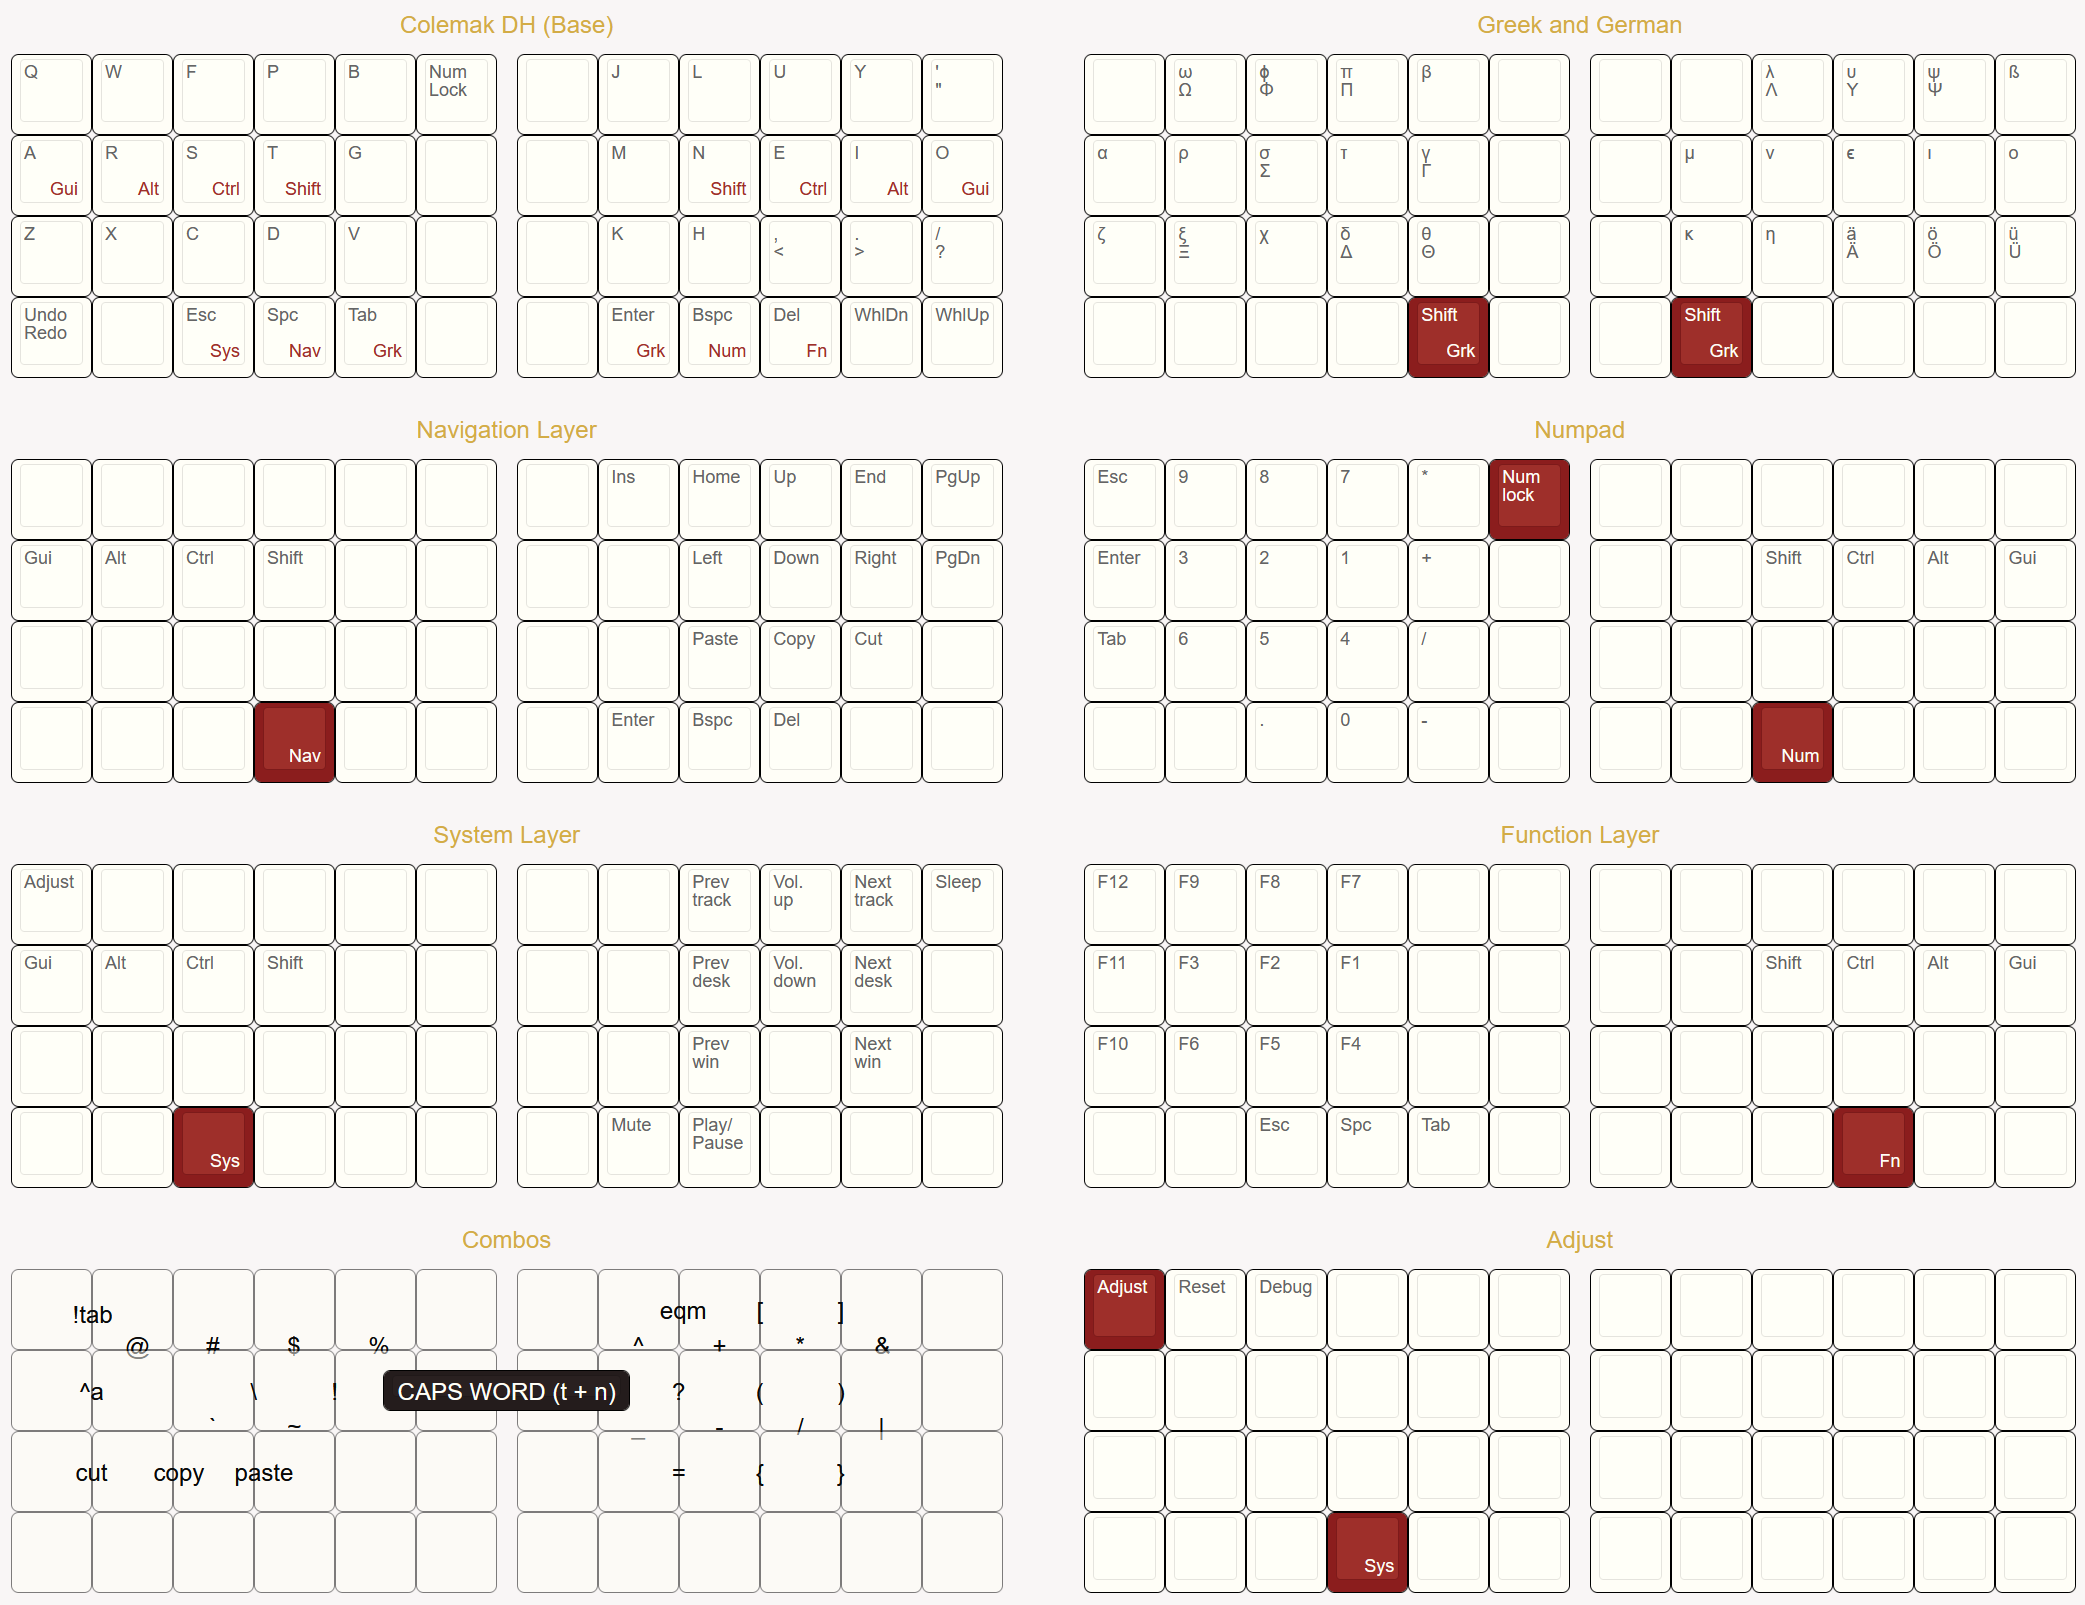
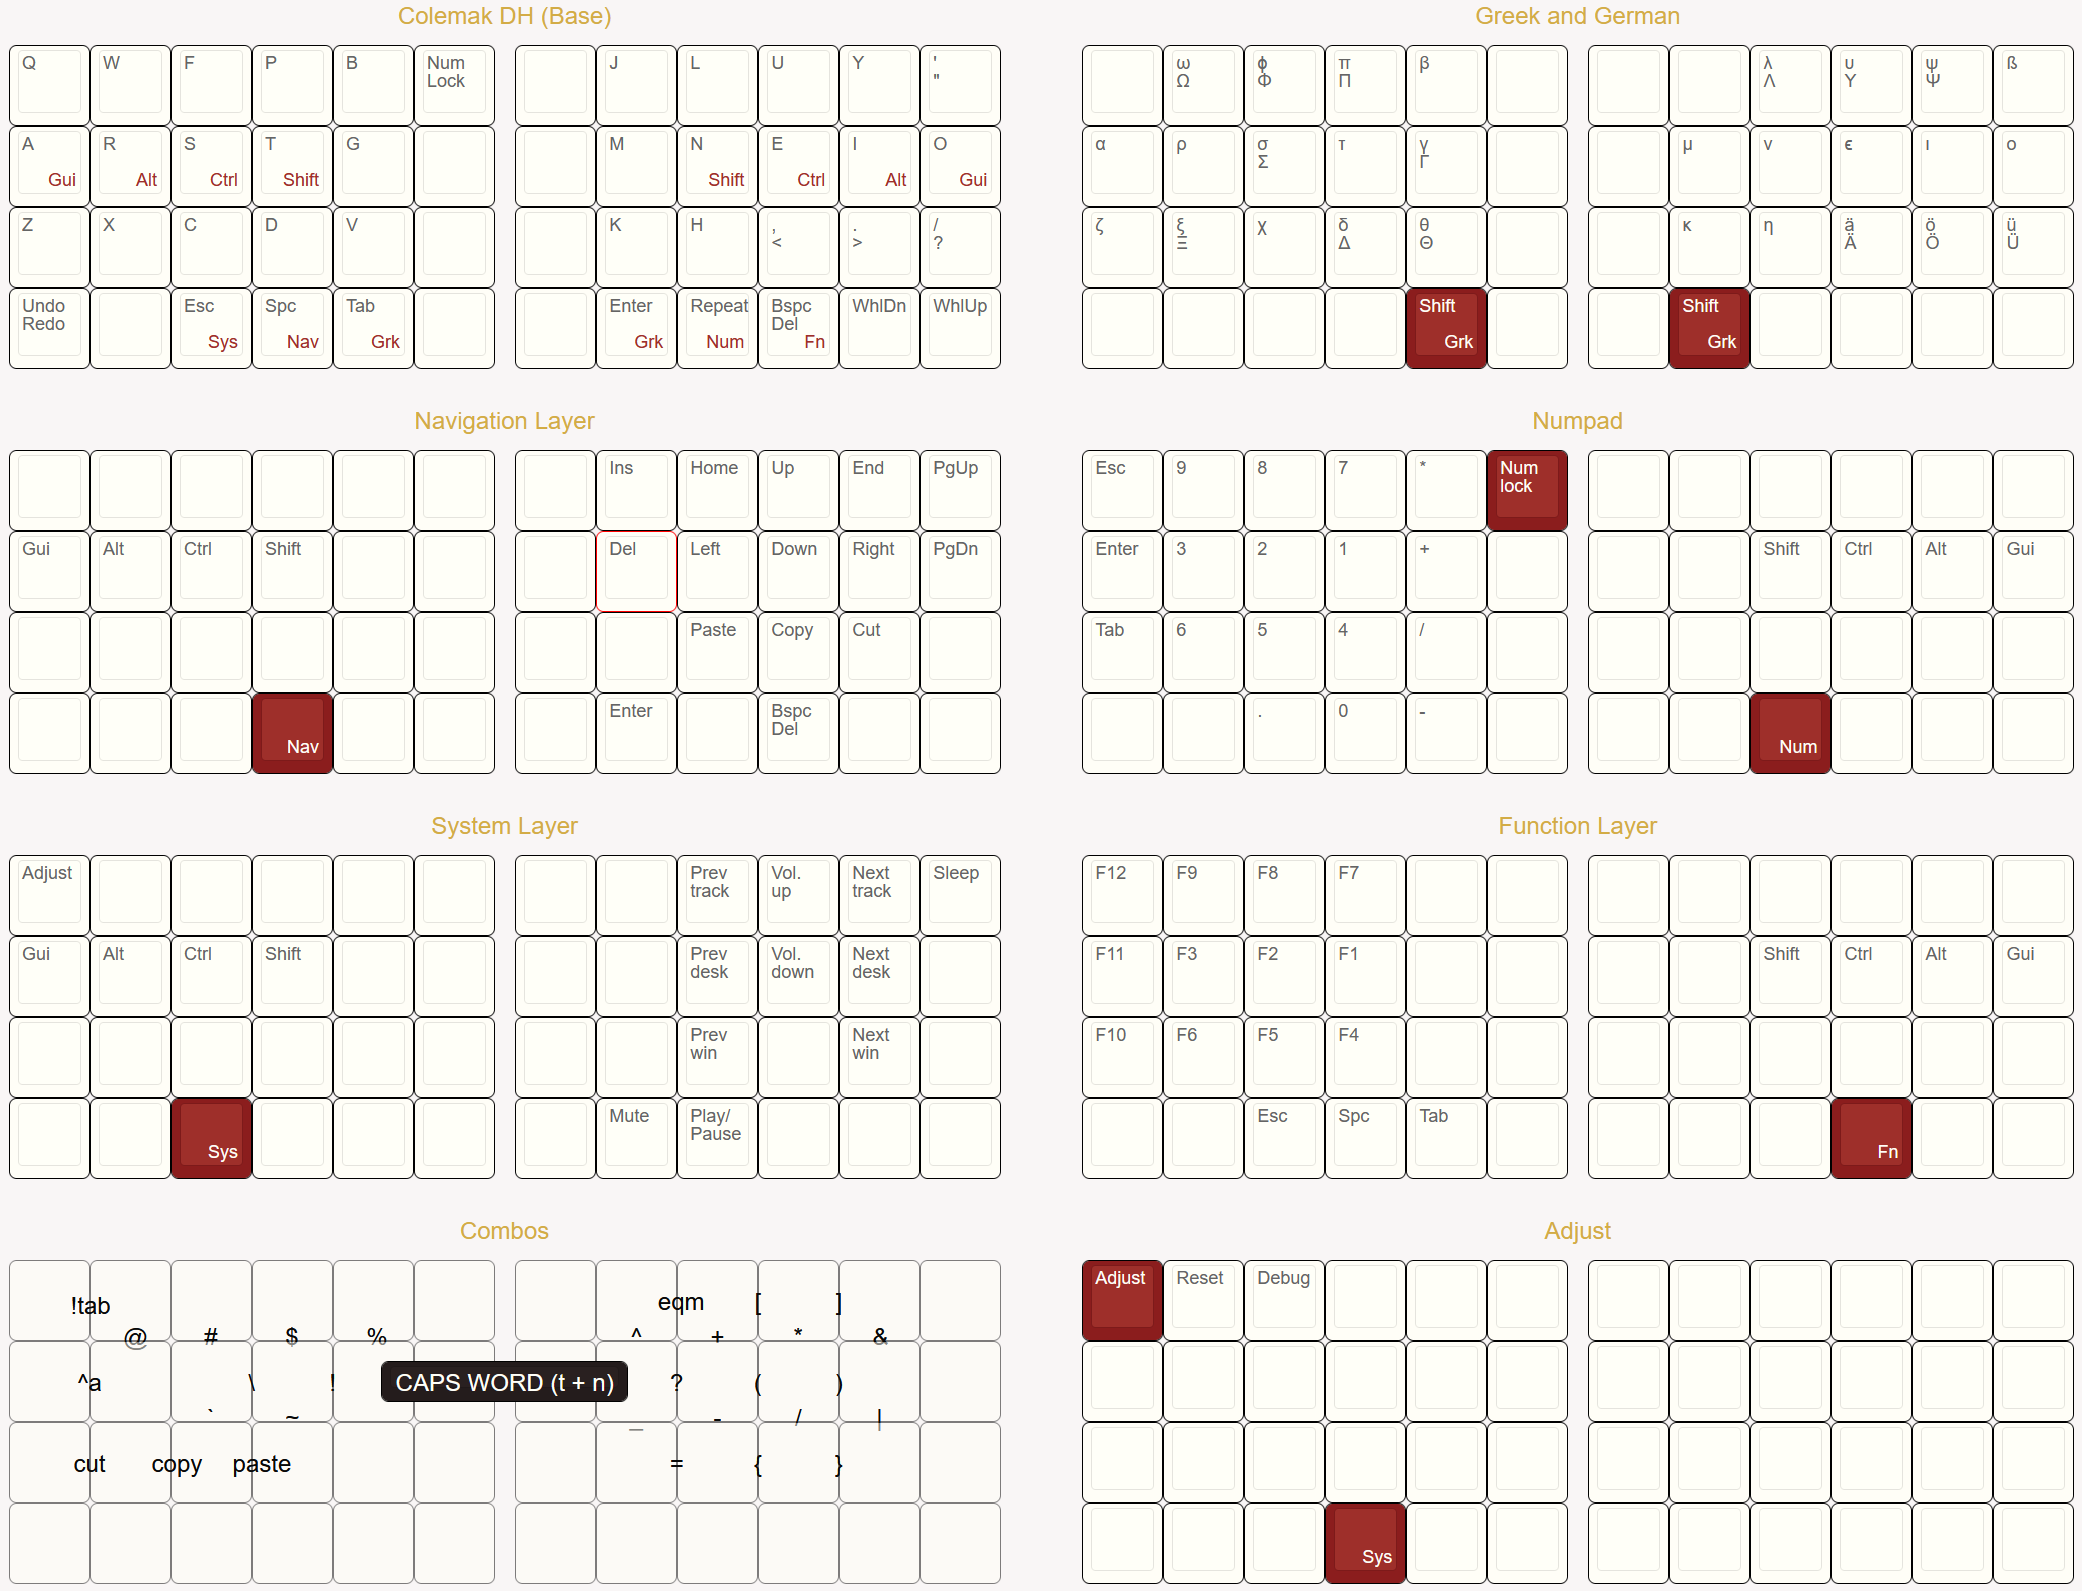
add repeat key

diff --git a/keyboards/planck/keymaps/urob/keymap.c b/keyboards/planck/keymaps/urob/keymap.c
@@ -63,7 +63,7 @@ const uint16_t PROGMEM keymaps[][MATRIX_ROWS][MATRIX_COLS] = {
     KC_Q,    KC_W,    KC_F,    KC_P,    KC_B,      DF(_NUM), XXXXXXX,  KC_J,    KC_L,    KC_U,    KC_Y,    KC_QUOT,
     HOME_A,  HOME_R,  HOME_S,  HOME_T,  KC_G,      XXXXXXX, XXXXXXX,   KC_M,    HOME_N,  HOME_E,  HOME_I,  HOME_O, 
     KC_Z,    KC_X,    KC_C,    KC_D,    KC_V,      XXXXXXX, XXXXXXX,   KC_K,    KC_H,    KC_COMM, KC_DOT,  KC_SCLN,
-    UNDO,    OSL_GRK, ESC_SYS, SPC_NAV, TAB_GRK,   KC_LSFT, KC_RSFT,   ENT_GRK, BS_NUM,  DEL_FN,  KC_WH_D, KC_WH_U
+    UNDO,    OSL_GRK, ESC_SYS, SPC_NAV, TAB_GRK,   KC_LSFT, KC_RSFT,   ENT_GRK, REP_NUM, BS_FN,   KC_WH_D, KC_WH_U
 ),
 
 [_GRK] = LAYOUT_planck_grid(
@@ -75,9 +75,9 @@ const uint16_t PROGMEM keymaps[][MATRIX_ROWS][MATRIX_COLS] = {
 
 [_NAV] = LAYOUT_planck_grid(
     _______, _______, _______, _______, _______,   _______, _______,   KC_INS , KC_HOME, KC_UP,   KC_END,  KC_PGUP,
-    KC_LGUI, KC_LALT, KC_LCTL, KC_LSFT, _______,   _______, _______,   _______, KC_LEFT, KC_DOWN, KC_RGHT, KC_PGDN,
+    KC_LGUI, KC_LALT, KC_LCTL, KC_LSFT, _______,   _______, _______,   KC_DEL , KC_LEFT, KC_DOWN, KC_RGHT, KC_PGDN,
     _______, _______, _______, _______, _______,   _______, _______,   _______, PASTE  , COPY   , CUT    , _______,
-    _______, _______, _______, _______, _______,   _______, _______,   KC_ENT , KC_BSPC, KC_DEL , _______, _______
+    _______, _______, _______, _______, _______,   _______, _______,   KC_ENT , XXXXXXX, KC_BSPC, _______, _______
 ),
 
 // [_SYM] = LAYOUT_planck_grid( /* depreciated, replaced by combo layer */
@@ -135,6 +135,12 @@ void caps_word_disable(void) {
     }
 }
 
+
+// Used to extract the basic tapping keycode from a dual-role key.
+// Example: GET_TAP_KC(MT(MOD_RSFT, KC_E)) == KC_E
+#define GET_TAP_KC(dual_role_key) dual_role_key & 0xFF
+
+
 void process_caps_word(uint16_t keycode, const keyrecord_t *record) {
     // Update caps word state
     if (caps_word_on) {
@@ -144,7 +150,8 @@ void process_caps_word(uint16_t keycode, const keyrecord_t *record) {
                 // Earlier return if this has not been considered tapped yet
                 if (record->tap.count == 0) { return; }
                 // Get the base tapping keycode of a mod- or layer-tap key
-                keycode = keycode & 0xFF;
+                // keycode = keycode & 0xFF;
+                keycode = GET_TAP_KC(keycode);
                 break;
             default:
                 break;
@@ -178,35 +185,124 @@ void process_caps_word(uint16_t keycode, const keyrecord_t *record) {
 }
 
 
+uint16_t last_keycode = KC_NO;
+uint8_t last_modifier = 0;
+void process_repeat_key(uint16_t keycode, const keyrecord_t *record) {
+    if ((keycode != REP_NUM) || (record->tap.count == 0)) { // hold does not trigger repeat
+        last_modifier = oneshot_mod_state > mod_state ? oneshot_mod_state : mod_state;
+        switch (keycode) {
+            case QK_LAYER_TAP ... QK_LAYER_TAP_MAX:
+            case QK_MOD_TAP ... QK_MOD_TAP_MAX:
+                if (record->event.pressed) {
+                    last_keycode = GET_TAP_KC(keycode);
+                }
+                break;
+            default:
+                if (record->event.pressed) {
+                    last_keycode = keycode;
+                }
+                break;
+        }
+    } else { // keycode == REPEAT and it is tapped (not hold)
+        if (record->event.pressed) {
+            register_mods(last_modifier);
+            register_code16(last_keycode);
+        } else {
+            unregister_code16(last_keycode);
+            unregister_mods(last_modifier);
+        }
+    }
+}
+
+
 bool process_record_user(uint16_t keycode, keyrecord_t *record) {
     // Process caps word for updates
     process_caps_word(keycode, record);
 
+    process_repeat_key(keycode, record);
+    mod_state = get_mods();
+    oneshot_mod_state = get_oneshot_mods();
+
     switch (keycode) {
 
-    case CAPS_WORD:
-        // Toggle `caps_word_on`
-        if (record->event.pressed) {
-            if (caps_word_on) {
-                caps_word_disable();
-                return false;
-            } else {
-                caps_word_enable();
-                return false;
+        case CAPS_WORD:
+            // Toggle `caps_word_on`
+            if (record->event.pressed) {
+                if (caps_word_on) {
+                    caps_word_disable();
+                    return false;
+                } else {
+                    caps_word_enable();
+                    return false;
+                }
             }
-        }
-        break;
+            break;
+
+        case KC_BSPC:
+            {
+            static bool delkey_registered;
+            if (record->event.pressed) {
+                if (mod_state & MOD_MASK_SHIFT) {
+                    // In case only one shift is held
+                    // see https://stackoverflow.com/questions/1596668/logical-xor-operator-in-c
+                    // This also means that in case of holding both shifts and pressing KC_BSPC,
+                    // Shift+Delete is sent (useful in Firefox) since the shift modifiers aren't deleted.
+                    if (!(mod_state & MOD_BIT(KC_LSHIFT)) != !(mod_state & MOD_BIT(KC_RSHIFT))) {
+                        del_mods(MOD_MASK_SHIFT);
+                    }
+                    register_code(KC_DEL);
+                    delkey_registered = true;
+                    set_mods(mod_state);
+                    return false;
+                }
+            } else {
+                if (delkey_registered) {
+                    unregister_code(KC_DEL);
+                    delkey_registered = false;
+                    return false;
+                }
+            }
+            return true;
+            }
+
+        case BS_FN: // duplicate KC_BSPC code for BS_FN when tapped
+            if (record->tap.count > 0) { // do not apply on hold
+            static bool delkey_registered;
+            if (record->event.pressed) {
+                if (mod_state & MOD_MASK_SHIFT) {
+                    // In case only one shift is held
+                    // see https://stackoverflow.com/questions/1596668/logical-xor-operator-in-c
+                    // This also means that in case of holding both shifts and pressing KC_BSPC,
+                    // Shift+Delete is sent (useful in Firefox) since the shift modifiers aren't deleted.
+                    if (!(mod_state & MOD_BIT(KC_LSHIFT)) != !(mod_state & MOD_BIT(KC_RSHIFT))) {
+                        del_mods(MOD_MASK_SHIFT);
+                    }
+                    register_code(KC_DEL);
+                    delkey_registered = true;
+                    set_mods(mod_state);
+                    return false;
+                }
+            } else {
+                if (delkey_registered) {
+                    unregister_code(KC_DEL);
+                    delkey_registered = false;
+                    return false;
+                }
+            }
+            return true;
+            }
 
     }
     return true; // Process all other keycodes normally
 }
 
-
 // Per key auto-repeat settings
 bool get_tapping_force_hold(uint16_t keycode, keyrecord_t *record) {
     switch (keycode) {
         case BS_NUM:
+        case REP_NUM:
         case DEL_FN:
+        case BS_FN:
             return false;  /* allow auto-repeat for backspace */
         default:
             return true;   /* disable per default */

diff --git a/keyboards/planck/keymaps/urob/keymap.h b/keyboards/planck/keymaps/urob/keymap.h
@@ -1,6 +1,12 @@
 #pragma once
 
 #include QMK_KEYBOARD_H
+//
+// Initialize variable holding the binary
+// representation of active modifiers.
+uint8_t mod_state;
+uint8_t oneshot_mod_state;
+uint16_t last_keycode;
 
 bool caps_word_on;
 void caps_word_enable(void);
@@ -19,6 +25,7 @@ enum layer_names {
 
 enum custom_keycodes {
     CAPS_WORD = SAFE_RANGE,
+    REPEAT,
     MT_TAU, // dummy keycode
     MT_NU // dummy keycode
 };
@@ -30,6 +37,8 @@ enum custom_keycodes {
 #define ENT_GRK  LT(_GRK, KC_ENT)
 #define BS_NUM   LT(_NUM, KC_BSPACE)
 #define DEL_FN   LT(_FN, KC_DEL)
+#define REP_NUM  LT(_NUM, KC_NO) // repeat key must be basic key for tap-hold to work
+#define BS_FN    LT(_FN, KC_BSPACE)
 
 // #define OSL_GRK  LSFT_T(OSL(_GRK))
 #define OSL_GRK  OSL(_GRK)
